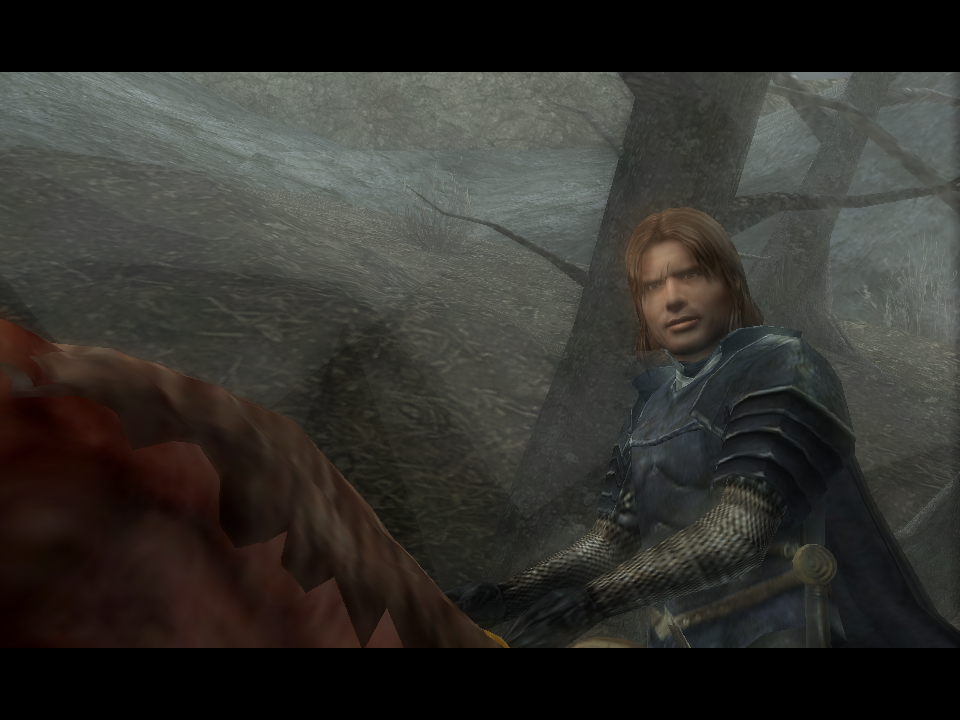
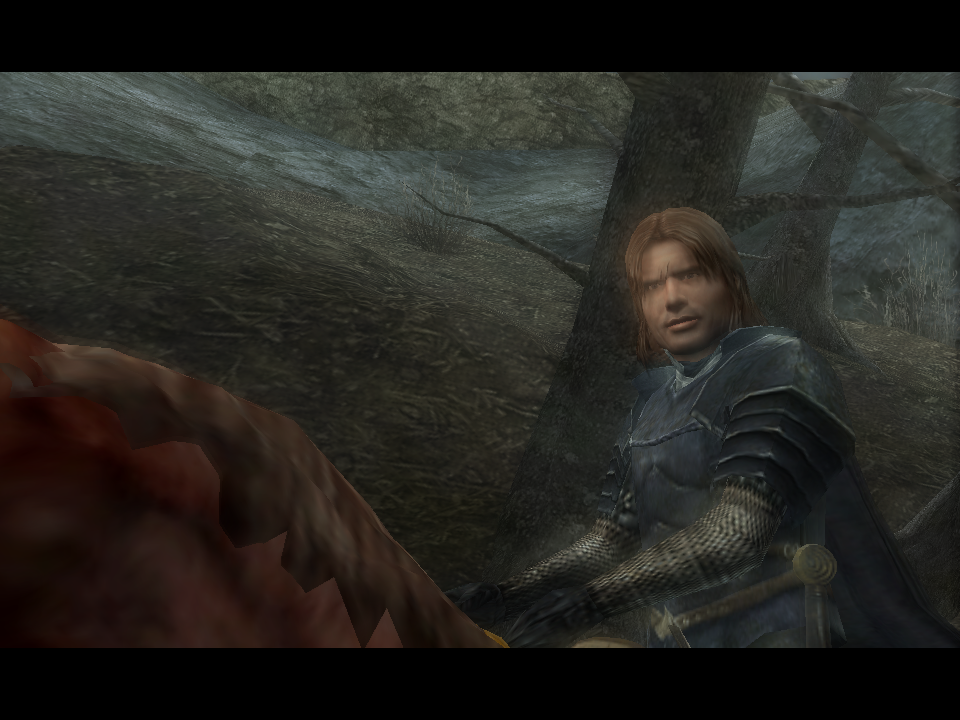
Glows: the effect's own texture, not the GS place (the green washout)
The glows took their texture from where TEX0 points (TBP0 0x3013), and the
UI's text canvas is placed there too: grey and nearly opaque, ~80 veils of it
washed the intro's Black Riders scene out in green. Each glow's texture is
now its record's pack id (*(S+0xc8)); the type-19 mist banks use theirs
(geometry +0x1c). Also the microcode's guard band (CLIP against c12 = 2000),
the game's frame counter in the host's per-second line (the probes key on
it), and a texture line in TTA_GLOW_DUMP.

diff --git a/runtime/tta_3d.cpp b/runtime/tta_3d.cpp
@@ -1521,6 +1521,16 @@ namespace tta
         std::vector<uint32_t> g_glowBlocks;
         uint32_t g_glowsDrawn = 0, g_glowParticles = 0, g_glowCalls = 0, g_glowNoBlocks = 0, g_glowOtherFbp = 0;
 
+        // An effect's texture: by its group record (the 64-bit id first) when it has one, else what was sent to TEX0's
+        // place. The place alone is no key: the UI's text canvas shares TBP0 0x3013 with the forest's mist texture.
+        std::shared_ptr<const bozo::render::Texture> effectTexture(const uint8_t *rdram, uint32_t record, uint64_t tex0)
+        {
+            if (record)
+                if (auto texture = textureById(read64(rdram, record)))
+                    return texture;
+            return textureAtPlace(static_cast<uint32_t>(tex0 & 0x3fffu), static_cast<uint32_t>((tex0 >> 20) & 0x3fu));
+        }
+
         void drawGlow(const uint8_t *rdram, uint32_t s)
         {
             const uint32_t packet = read32(rdram, s + 0x138);
@@ -1544,7 +1554,13 @@ namespace tta
                 m[i] = readFloat(rdram, rc + 0x2e0 + i * 4);
             const float focal = readFloat(rdram, rc + 0x524), aspect = readFloat(rdram, rc + 0x5e4);
             const uint64_t tex0 = read64(rdram, ds + 0x1a0), alpha = read64(rdram, ds + 0x100), test = read64(rdram, ds + 0x140);
-            const auto texture = textureAtPlace(static_cast<uint32_t>(tex0 & 0x3fffu), static_cast<uint32_t>((tex0 >> 20) & 0x3fu));
+            // The glow's own texture record (S+0xc8, a group record: the 64-bit id first, TBP0 at +0x10).
+            const uint32_t record = read32(rdram, s + 0xc8);
+            const auto texture = effectTexture(rdram, record, tex0);
+            if (g_glowDump)
+                std::printf("[tta:glow]   record %x: id %016llx TBP0 %x (TEX0 %llx) -> %s\n", record,
+                            static_cast<unsigned long long>(record ? read64(rdram, record) : 0), record ? read16(rdram, record + 0x10) : 0u,
+                            static_cast<unsigned long long>(tex0 & 0x3fffu), texture ? "texture" : "none");
             static std::vector<bozo::render::Vertex> triangles;
             triangles.clear();
             for (const uint32_t block : g_glowBlocks)
@@ -1613,6 +1629,9 @@ namespace tta
                         v = std::min(std::max(v, c(26, k)), c(27, k));
                         rgba |= static_cast<uint32_t>(std::clamp(v, 0.0f, 255.0f)) << (k * 8);
                     }
+                    if (g_glowDump)
+                        std::printf("[tta:glow]     particle %x/%d: age %g size %g rgba %08x tint %04x at %g,%g,%g q %g\n", block, i,
+                                    age, size, rgba, tint, sx, sy, sz, q);
                     // The quad: the anchor (c29.xy) at the particle, corners P + a (2i - anchor x) + b (2j - anchor y).
                     bozo::render::Vertex corner[4];
                     bool inside = true;
@@ -1628,7 +1647,9 @@ namespace tta
                             v.v = v0 + dv * static_cast<float>(j);
                             v.q = q;
                             v.rgba = rgba;
-                            inside = inside && std::fabs(v.x - 2048.0f) < 2048.0f && std::fabs(v.y - 2048.0f) < 2048.0f;
+                            // The microcode's guard band: CLIP of each corner against c12 = (2048, 2048, .., 2000); a
+                            // particle with any corner past it is skipped (ADC). It drops the huge veils at the camera.
+                            inside = inside && std::fabs(v.x - 2048.0f) <= 2000.0f && std::fabs(v.y - 2048.0f) <= 2000.0f;
                         }
                     if (!inside)
                         continue;
@@ -1663,6 +1684,20 @@ namespace tta
             bozo::render::Renderer::instance().draw(material, identity, triangles.data(), static_cast<uint32_t>(triangles.size()),
                                                     texture);
             ++g_glowsDrawn;
+            if (g_glowDump && texture)
+            {
+                uint64_t sum = 0;
+                uint32_t top = 0;
+                for (const uint32_t texel : texture->rgba)
+                {
+                    sum += texel >> 24;
+                    top = std::max(top, texel >> 24);
+                }
+                std::printf("[tta:glow]   texture %llx %ux%u (TEX0 %llx): alpha mean %.1f max %u, first texel %08x\n",
+                            static_cast<unsigned long long>(texture->key), texture->width, texture->height,
+                            static_cast<unsigned long long>(tex0), texture->rgba.empty() ? 0.0 : double(sum) / texture->rgba.size(),
+                            top, texture->rgba.empty() ? 0u : texture->rgba[texture->rgba.size() / 2]);
+            }
             if (g_glowDump)
                 std::printf("[tta:glow]   drawn: %zu particles, texture %s, ALPHA %llx TEST %llx ZBUF %llx, focal %g aspect %g\n",
                             triangles.size() / 6, texture ? "found" : "missing", static_cast<unsigned long long>(alpha),
@@ -1769,7 +1804,7 @@ namespace tta
                 return;
             const uint32_t ds = read32(rdram, 0x36f850);
             const uint64_t tex0 = read64(rdram, ds + 0x1a0);
-            const auto texture = textureAtPlace(static_cast<uint32_t>(tex0 & 0x3fffu), static_cast<uint32_t>((tex0 >> 20) & 0x3fu));
+            const auto texture = effectTexture(rdram, record, tex0);
             const uint32_t rc = read32(rdram, read32(rdram, 0x36f350));
             float matrix[16];
             for (int i = 0; i < 16; ++i)

diff --git a/runtime/tta_main.cpp b/runtime/tta_main.cpp
@@ -14,6 +14,7 @@
 #include <algorithm>
 #include <cstdio>
 #include <cstdlib>
+#include <cstring>
 #include <string>
 #include <utility>
 #include <vector>
@@ -104,8 +105,13 @@ int main(int argc, char **argv)
     {
         pacer.frameEnd();
         if (f % 60 == 0)
-            std::printf("[tta] frame=%llu pc=%x cycles=%llu\n", (unsigned long long)f, ctx->pc,
+        {
+            // The game's own frame counter (0x3b5720) beside the host's: the TTA_*_DUMP probes key on the game's.
+            uint32_t game = 0;
+            std::memcpy(&game, d.runtime().memory.ram() + 0x3b5720, 4);
+            std::printf("[tta] frame=%llu game=%u pc=%x cycles=%llu\n", (unsigned long long)f, game, ctx->pc,
                         (unsigned long long)d.now());
+        }
     };
 #ifdef TTA_WITH_WINDOW
     bozo::app::DevicePad devices;

diff --git a/docs/RECOMP_NOTES.md b/docs/RECOMP_NOTES.md
@@ -249,6 +249,17 @@ the game's behaviour); its code is in the history before `8ade037`.
   TEX0_1 / ALPHA_1 / TEST_1 / ZBUF_1. Up to ~1300 particles a frame; the forest and battle frame rate is unchanged on
   average. TTA_NO_GLOWS=1 turns them off. Trap: with no pad input the game sits on the title screen, where the only
   effect is the UI's "UI_bloom" (one particle); level effects only exist in game (build/pad_battle.txt).
+- **The glows' texture is the effect's record, not the GS place** (2026-11-11, later). In the intro's Black Riders
+  scene the native glows washed the screen out in green (frame mean 144 / 233 / 163 at host frame 5801): the glows
+  took their texture from where TEX0 points (TBP0 0x3013, T8), and the UI's text canvas (0x2c80e8, grey, alpha ~0xe7)
+  is placed there too; the effects send their own textures to that scratch place outside 0x219ca8. Each glow's
+  texture record is *(S+0xc8) (a group record: the 64-bit pack id first, its home TBP0 at +0x10, e.g. 0x3623) and the
+  type-19 mist banks' is the geometry's +0x1c: runtime/tta_3d.cpp's effectTexture looks them up by the id first. The
+  real mist textures are soft (alpha mean 5 and 30 of 0x80). Also from the microcode: each corner is CLIPped against
+  c12 = (2048, 2048, 2000.1, 2000) and a particle with any corner past the 2000 guard band is skipped (ADC); a
+  second CLIP set drops particles wholly off screen. The host's per-second line now prints the game's frame
+  (0x3b5720) beside its own: TTA_GLOW_DUMP and the other probes key on the game's (host 6800 = game 6755 in the
+  intro with build/pad_intro.txt).
 - **PCSX2 as the reference** (2026-11-10): D:/PCSX2 with the ISO; save state slot 1 = the intro's first close-up
   (native frame ~3751). Next to it the native frame is much darker and crisper: the console image is brighter, misty
   (the background washes to grey-blue) and soft. The full-screen glow / mist passes (set 5, layers 4/5/0xc/0x19) are

diff --git a/README.md b/README.md
@@ -60,11 +60,19 @@ what remains open.
 
 ## Screenshots
 
+**2026-11-11, later.** The mist's real textures: the glows had been drawn with the UI's text canvas (it shares the
+mist texture's place in GS memory), which washed the intro out in green. Each effect now takes its texture from its
+own record, so the forest's mist is soft and wispy.
+
+<p align="center">
+  <img src="docs/screenshots/2026-11-11-bozo-forest-mist.png" width="400" alt="A Black Rider in the forest on BozoEngine, the trees fading into green mist behind him">
+</p>
+
 **2026-11-11.** TTA's Glows, native: the effects' particle billboards (VU1 microcode 0x620 rewritten in C++). They
 are the console's mist veils in the forest and the haze and light shafts over the battle.
 
 <p align="center">
-  <img src="docs/screenshots/2026-11-11-bozo-glow-mist.png" width="400" alt="Berethor in the forest on BozoEngine, veiled in the grey mist of TTA's glow particles">
+  <img src="docs/screenshots/2026-11-11-bozo-glow-mist.png" width="400" alt="Berethor in the forest on BozoEngine, veiled in the soft mist of TTA's glow particles">
   <img src="docs/screenshots/2026-11-11-bozo-battle-haze.png" width="400" alt="The first battle on BozoEngine with the glow particles' haze and a light shaft between the Black Riders">
 </p>
 
